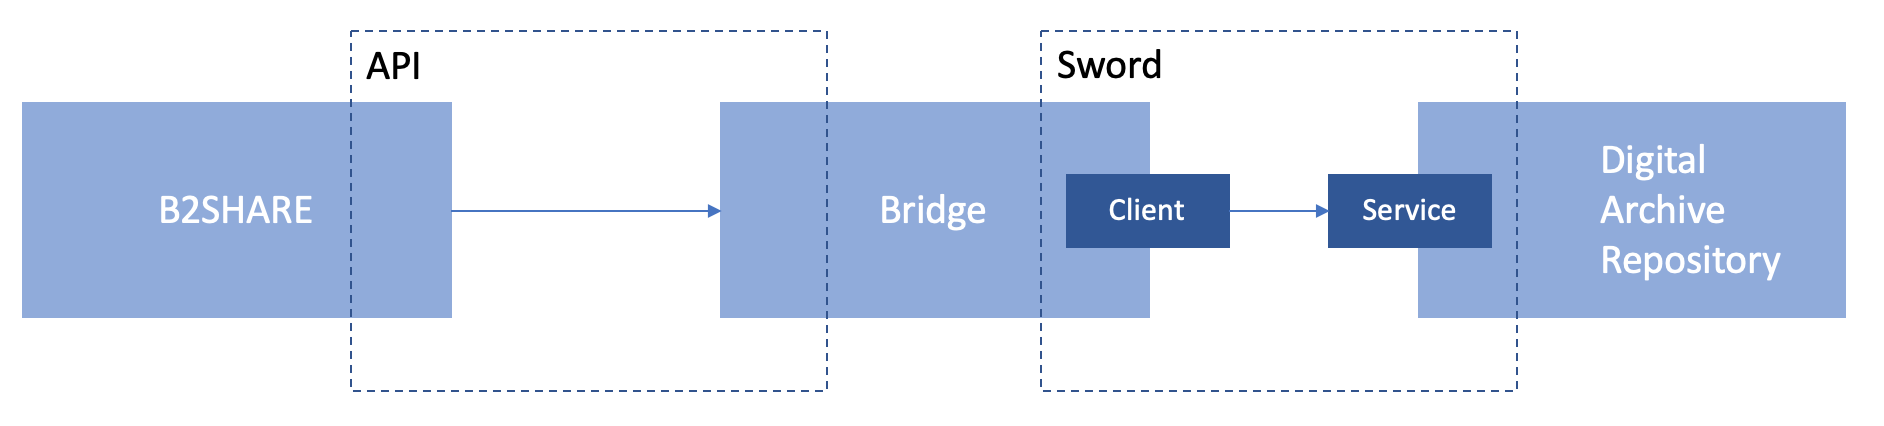
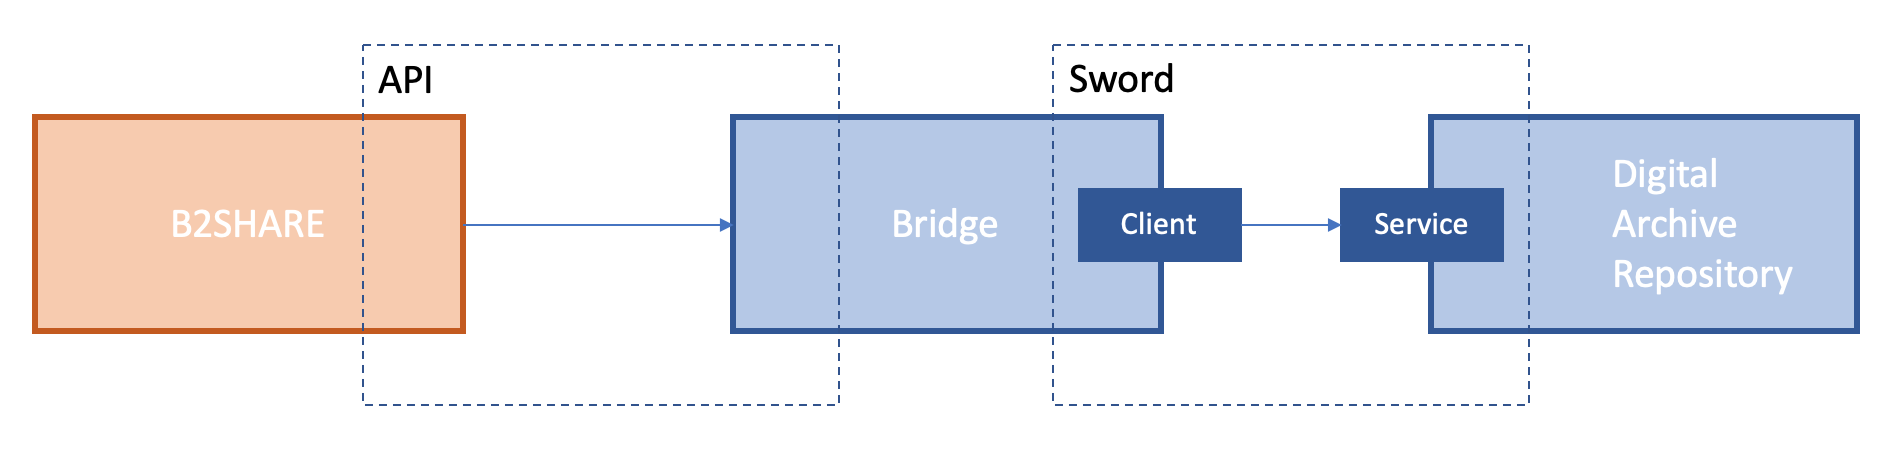
modify figures

diff --git a/README.md b/README.md
@@ -16,7 +16,14 @@ In the sections below more details are provided about:
 
 
 ## <a name="b2share-Bridge-DAR-architecture"></a>Architecture
-![Architecture: B2share - DAR](readme-imgs/overview2.png "B2Share-DAR")
+
+### Detail View B2Share WEBUI - Archive Module 
+![Architecture: webui - archive module](readme-imgs/detail_arch.png "Details architecture")
+
+### Detail View Bridge 
+![Detail View B2share - DAR Architecture ](readme-imgs/overview2.png "B2Share-DAR")
+
+
 
 ## <a name="b2share-Bridge-DAR-sequence-diagram"></a>Sequence Diagram
 ![Sequence Diagram: B2share - DAR](readme-imgs/seq-diagram-2.png "B2Share-DAR")
